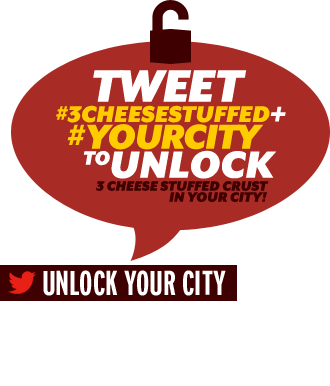
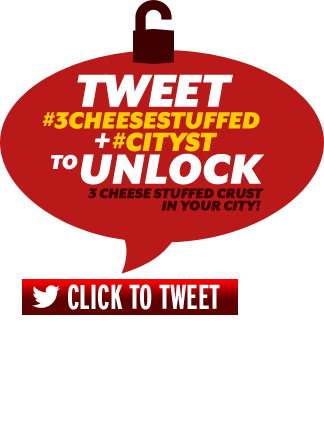
New image
new image and modification to html source.

diff --git a/index.html b/index.html
@@ -43,9 +43,9 @@
 				<div id="body">
 					
 						<!-- iframe of visualizer here -->
-					<img src="img/tweetBubble.png" width="" height="" class="tweetBubble" />
+					<a href="#" alt="Click to Tweet" alias="teweetBubble"<img src="img/tweetBubble.png" width="" height="" class="tweetBubble" />
 					
-					<!--<img src="img/mapPlaceholder.png" width="" height="" class="mapPlaceholder" />-->
+					<!-- <img src="img/mapPlaceholder.png" width="" height="" class="mapPlaceholder" /> -->
 					<iframe class="mapPlaceholder" width="928px" scrolling="no" height="550px" frameborder="0" allowtransparency="true" style="border-width: initial; overflow: hidden; width: 928px; height: 550px; border-style: none; background-color: transparent ! important; border-color: initial;" data-url="http://up.massrelevance.com/massrel-products/activity-map-v6/index.html?config=TLandPH/3cheesetease-map" src="http://up.massrelevance.com/massrel-products/activity-map-v6/index.html?config=TLandPH/3cheesetease-map&amp;foo=1380667092953#config!{&quot;streams&quot;:[{&quot;stream_name&quot;:&quot;massreldemo/happy-birthday-geo&quot;,&quot;style&quot;:{&quot;color&quot;:&quot;#ff9900&quot;,&quot;stroke_color&quot;:&quot;#ffffff&quot;,&quot;stroke_width&quot;:&quot;0.75&quot;}}],&quot;button_bar_top_&quot;:{&quot;tweet_enabled&quot;:&quot;1&quot;,&quot;tweet&quot;:{&quot;button_text&quot;:&quot;Tweet&quot;,&quot;url&quot;:&quot;&quot;,&quot;text&quot;:&quot;&quot;,&quot;related&quot;:&quot;&quot;,&quot;hashtags&quot;:&quot;&quot;},&quot;follow_enabled&quot;:&quot;1&quot;,&quot;follow&quot;:{&quot;screen_name&quot;:&quot;&quot;},&quot;fbpost_enabled&quot;:&quot;1&quot;,&quot;fbpost&quot;:{&quot;button_text&quot;:&quot;Post&quot;,&quot;feed&quot;:&quot;&quot;,&quot;link&quot;:&quot;&quot;,&quot;picture&quot;:&quot;&quot;,&quot;name&quot;:&quot;&quot;,&quot;caption&quot;:&quot;&quot;,&quot;description&quot;:&quot;&quot;},&quot;fblike_enabled&quot;:&quot;1&quot;,&quot;fblike&quot;:{&quot;url&quot;:&quot;&quot;},&quot;checkin_enabled&quot;:&quot;1&quot;,&quot;checkin&quot;:{&quot;url&quot;:&quot;&quot;}},&quot;button_bar_top&quot;:false,&quot;button_bar_bottom&quot;:{&quot;tweet&quot;:{&quot;button_text&quot;:&quot;Tweet&quot;,&quot;url&quot;:&quot;&quot;,&quot;text&quot;:&quot;&quot;,&quot;related&quot;:&quot;&quot;,&quot;hashtags&quot;:&quot;&quot;},&quot;follow&quot;:{&quot;screen_name&quot;:&quot;@massrelevance&quot;},&quot;fbpost&quot;:{&quot;button_text&quot;:&quot;Post&quot;,&quot;feed&quot;:&quot;&quot;,&quot;link&quot;:&quot;&quot;,&quot;picture&quot;:&quot;&quot;,&quot;name&quot;:&quot;&quot;,&quot;caption&quot;:&quot;&quot;,&quot;description&quot;:&quot;&quot;},&quot;fblike&quot;:{&quot;url&quot;:&quot;&quot;},&quot;checkin&quot;:{&quot;url&quot;:&quot;&quot;}},&quot;header_&quot;:{&quot;title&quot;:&quot;Activity Map&quot;,&quot;subtitle&quot;:&quot;Based on Stream Agregation&quot;,&quot;logo&quot;:&quot;&quot;},&quot;header&quot;:false,&quot;map_area&quot;:&quot;usa&quot;,&quot;styles_&quot;:{&quot;map&quot;:{&quot;color&quot;:&quot;#CCCCCC&quot;,&quot;stroke_color&quot;:&quot;#202A31&quot;,&quot;stroke_width&quot;:&quot;0.75&quot;},&quot;activity&quot;:{&quot;bounce&quot;:&quot;1&quot;}},&quot;styles&quot;:false,&quot;background&quot;:{&quot;image&quot;:&quot;&quot;,&quot;position&quot;:&quot;stretch&quot;},&quot;overlay&quot;:{&quot;overlay_destination&quot;:&quot;popin&quot;,&quot;embed_media&quot;:true,&quot;klout_&quot;:null,&quot;klout&quot;:false,&quot;reflect_stream_color&quot;:true},&quot;footer&quot;:{&quot;name&quot;:&quot;&quot;,&quot;text&quot;:&quot;&quot;,&quot;image&quot;:&quot;&quot;,&quot;url&quot;:&quot;&quot;},&quot;max_activity&quot;:100,&quot;transition_time&quot;:2,&quot;frequency&quot;:30,&quot;limit&quot;:100,&quot;document_title&quot;:null,&quot;fbapp_id&quot;:&quot;508524932504444&quot;,&quot;initial_dot_radius&quot;:15,&quot;final_dot_radius&quot;:6,&quot;ga_client_account&quot;:&quot;&quot;,&quot;css&quot;:&quot;.dark-flat .footer {\r\n    background-color: #202A31;\r\n    display: none;\r\n}\r\n.dark-flat .social {\r\n    background-color: transparent;\r\n    display: none;\r\n}\r\n.package-button-bar &gt; div {\r\n    display: none;\r\n    padding: 0 2%;\r\n}\r\n#map-container {\r\n    bottom: 0 !important;\r\n    overflow-y: auto;\r\n    position: absolute;\r\n    top: 0 !important;\r\n    width: 100%;\r\n}\r\n\r\n.dark-flat.no-user-background body, .dark-flat.no-user-background .fancybox-skin {\r\n    background-color: transparent;\r\n}\r\n\r\n.dark-flat.no-user-background .package-header {\r\n    background-color: transparent;\r\n    display: none;\r\n}&quot;,&quot;theme&quot;:&quot;dark-flat&quot;,&quot;width&quot;:708,&quot;height&quot;:413}" id="preview"></iframe>
 					
 					<div id="stream">
@@ -94,7 +94,7 @@
 								<img src="img/twitterShare.png" width="" height="" class="twitter" />
 							</li>
 							<li>	
-								<img src="" width="" height="" class="facebook" />
+								<img src="img/facebookShare.png" width="" height="" class="facebook" />
 							</li>
 						</ul>
 				</div>

diff --git a/css/main.css b/css/main.css
@@ -92,8 +92,10 @@ ul, ol, ul li {
 	height: 50px;
 }
 
-.header {
-    height: auto;
+div#container div.headerWrapper div.header {
+    background: none repeat scroll 0 0 #3E0000 !important;
+    display: block;
+    height: 50px;
     margin: 0 auto;
     padding-left: 680px;
     width: 500px;
@@ -106,6 +108,7 @@ ul, ol, ul li {
 }
 
 .topnav {
+	color: white;
     display: block;
     float: left;
     margin: 12px 0 0 20px;
@@ -158,7 +161,7 @@ li.share {
 
 .pizza03 {
     clear: both;
-    display: block;
+    display: none;
     float: left;
     position: relative;
     top: -550px;
@@ -286,6 +289,15 @@ span#city02{
     width: 260px;
 }
 
+#footer {
+    background: none repeat scroll 0 0 #3E0000;
+    display: block;
+    float: left;
+    height: 50px;
+    position: relative;
+    top: 0;
+    width: 100%;
+}
 
 /* Map CSS*/
 div.container div#map-container div#map svg path{
